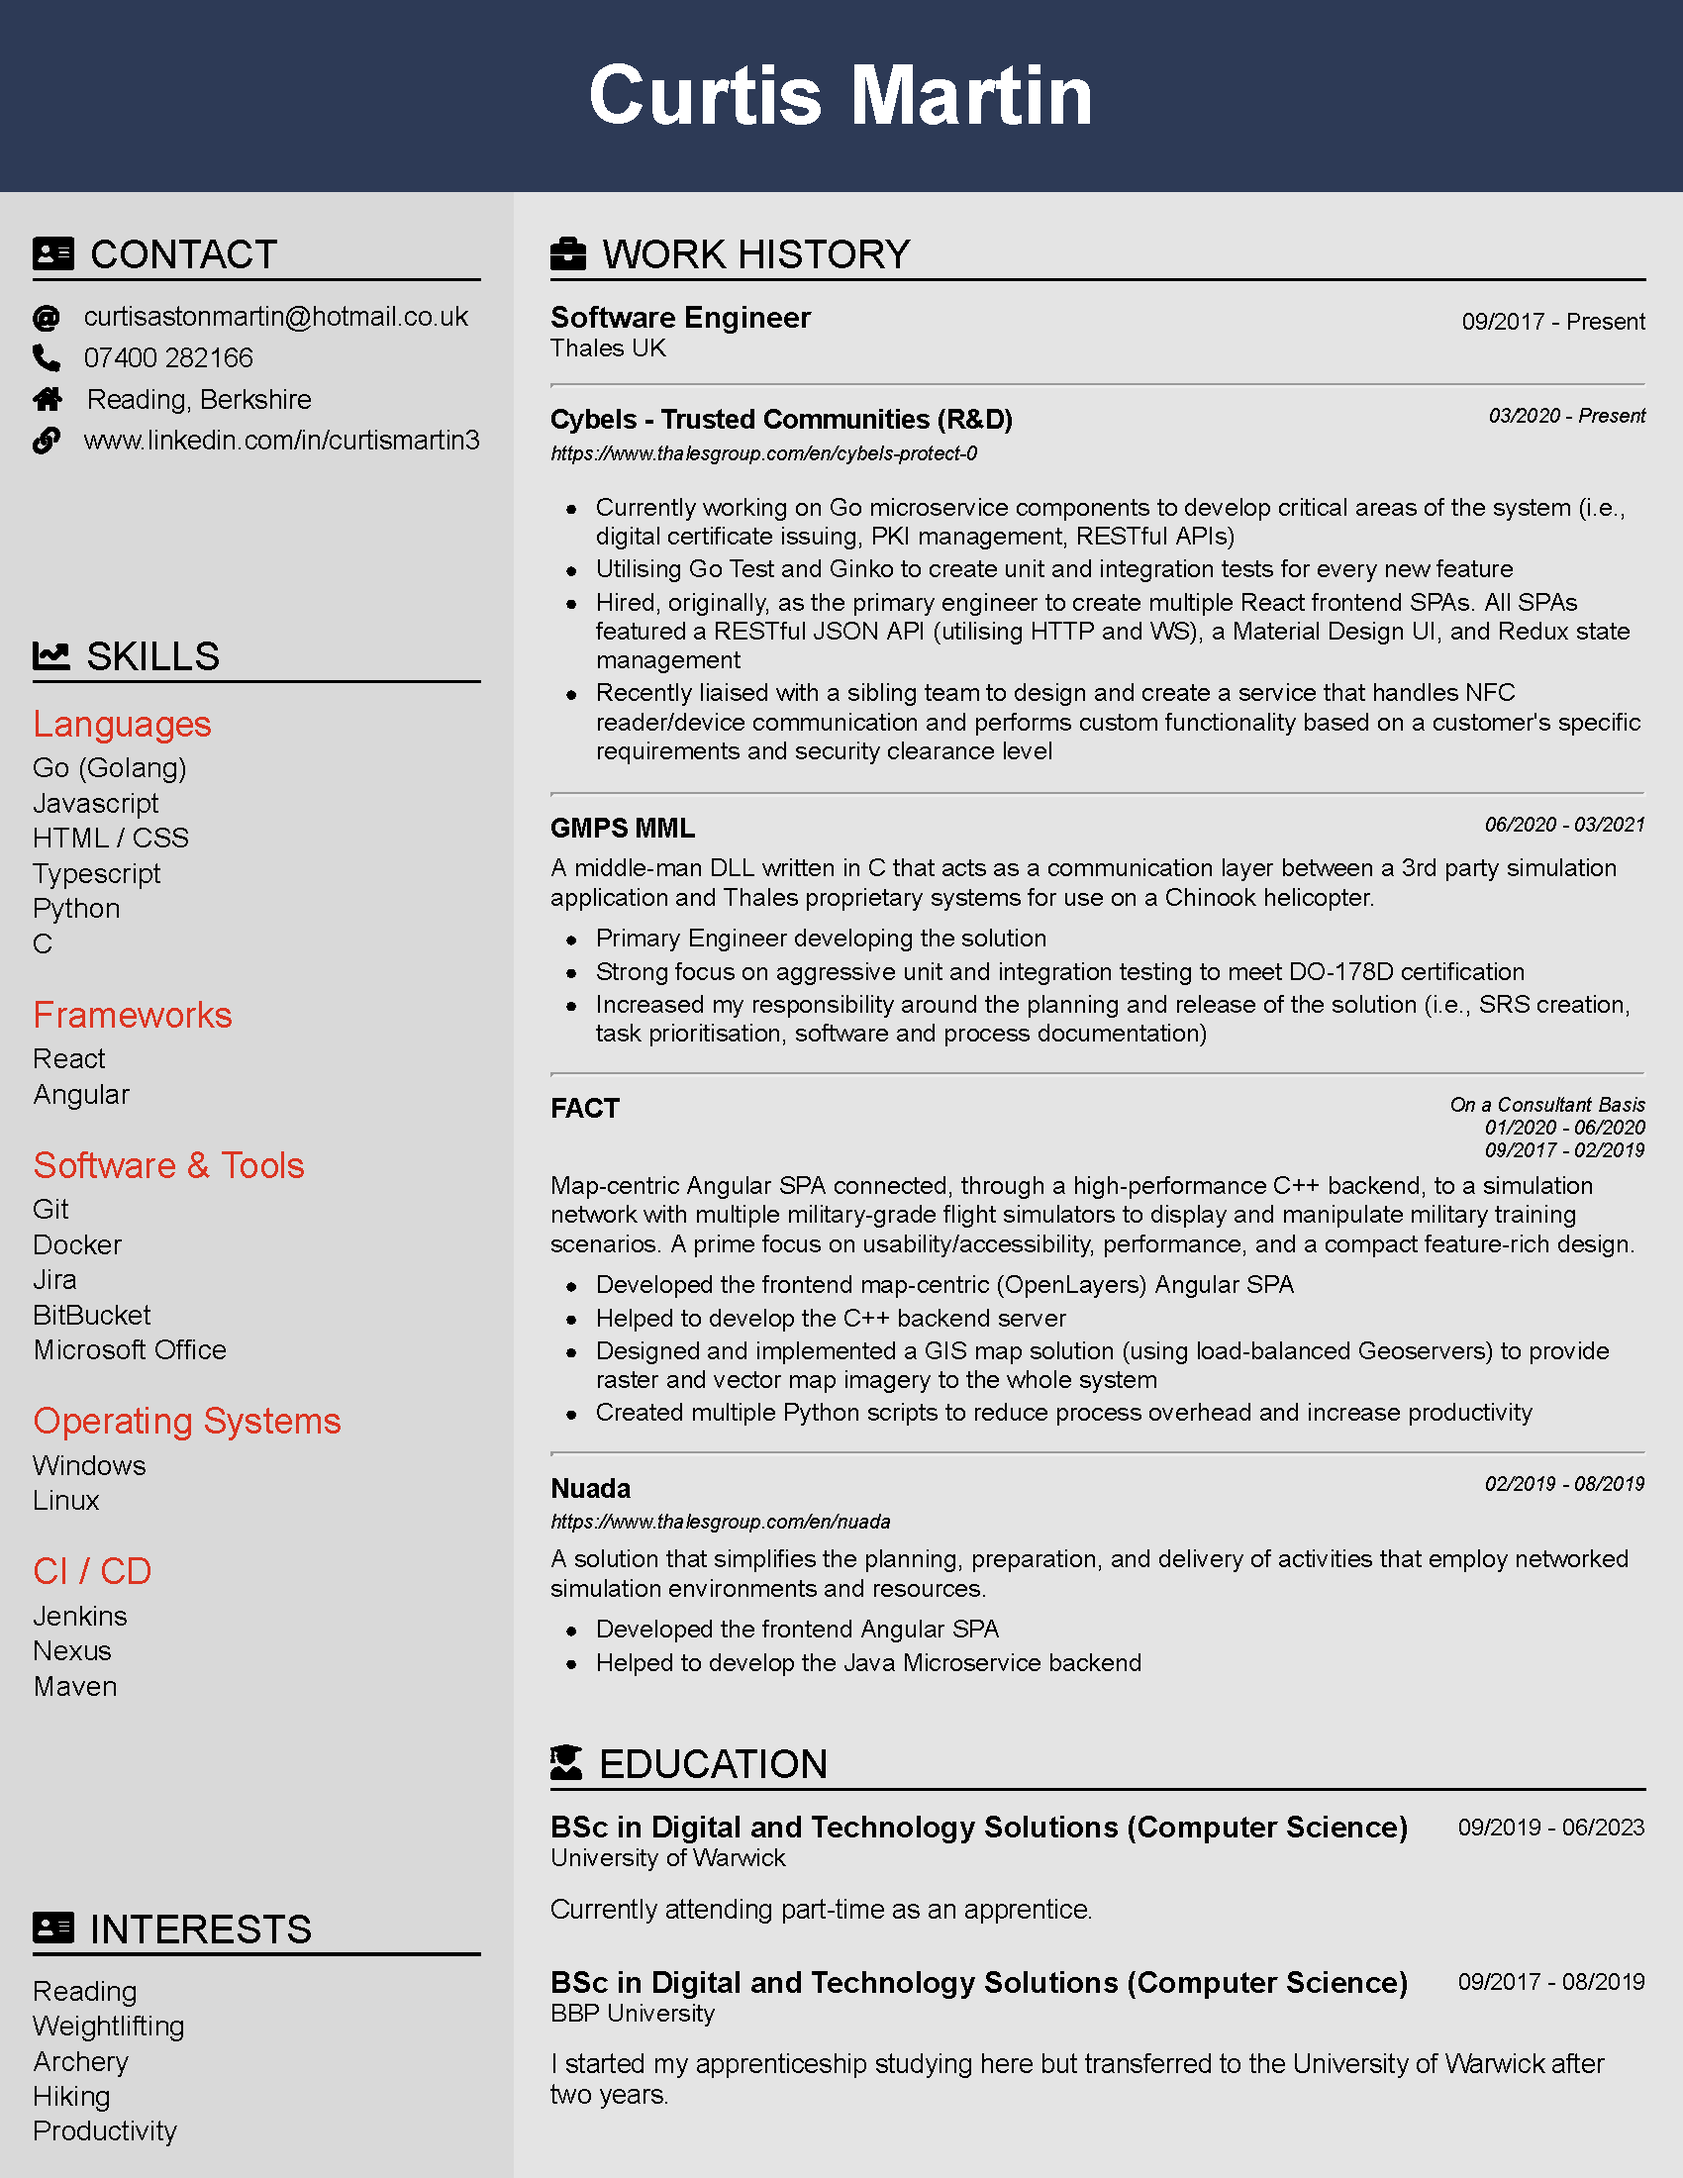
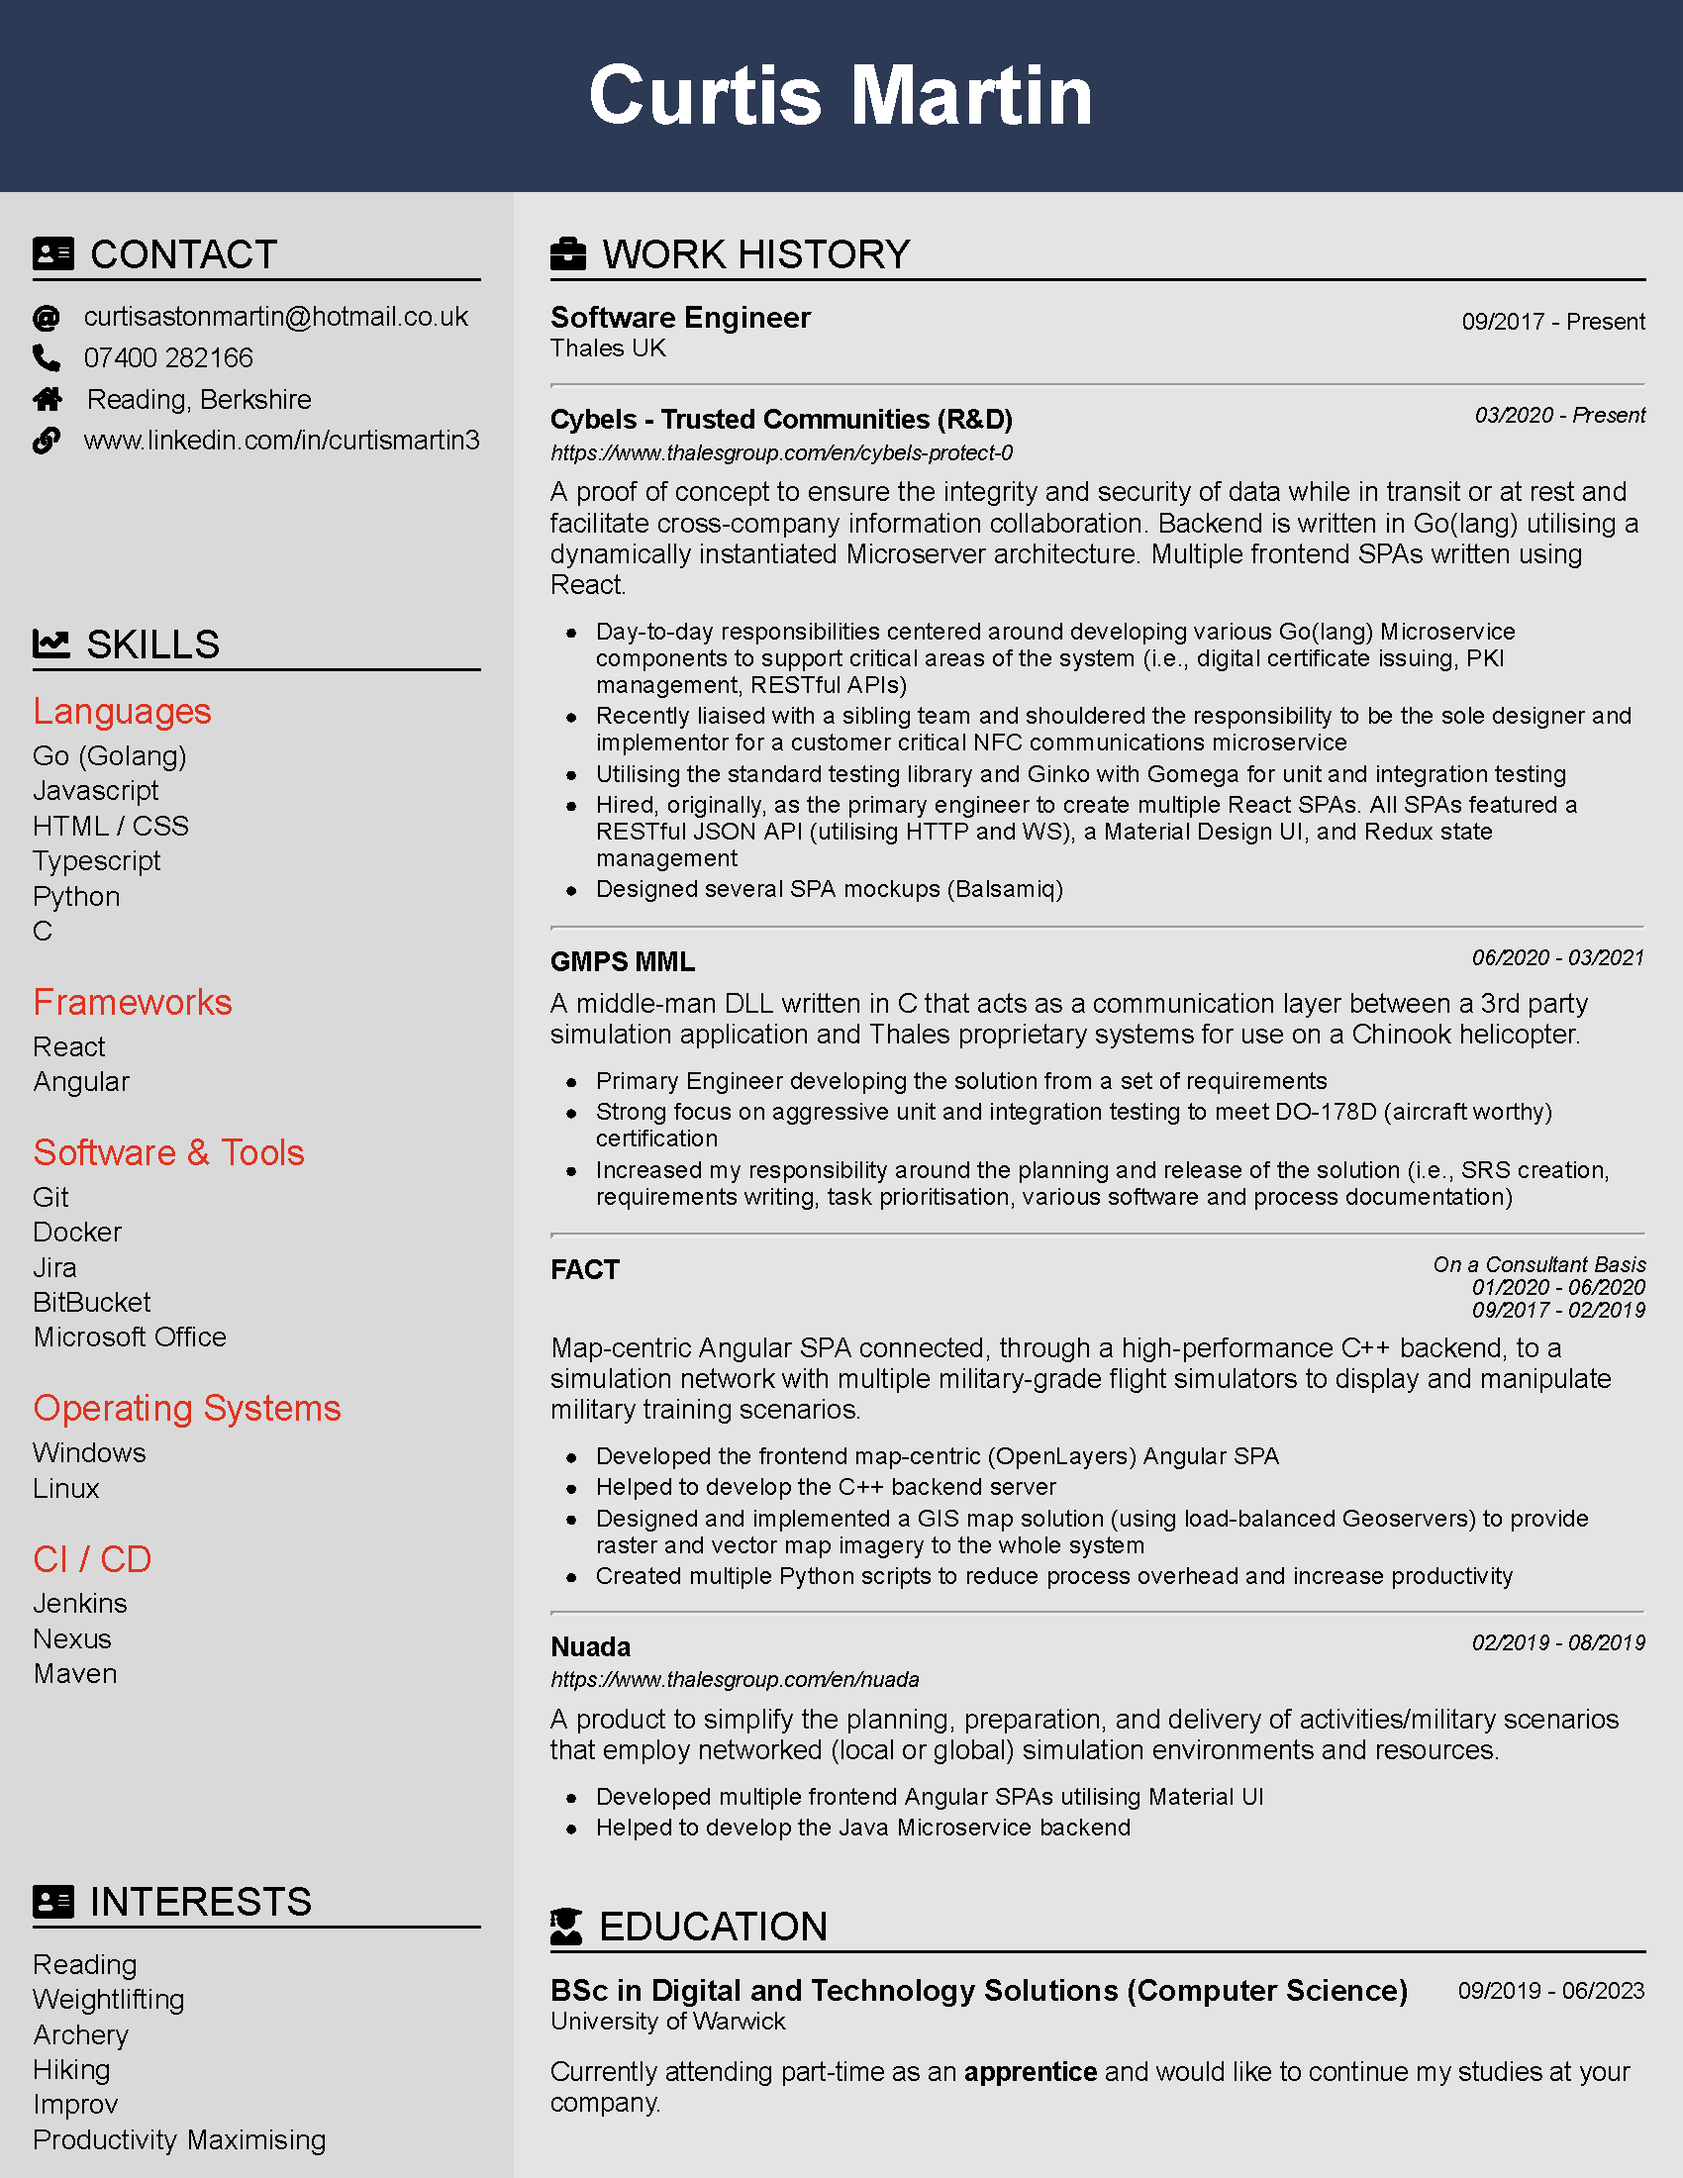
Updated Work and Education History

diff --git a/src/features/work-history/WorkHistory.jsx b/src/features/work-history/WorkHistory.jsx
@@ -34,30 +34,32 @@ const WorkHistory = () => {
             </div>
           </div>
 
-          <p>
-            <ul>
-              <li>
-                Currently working on Go microservice components to develop critical areas
-                of the system (i.e., digital certificate issuing, PKI management, RESTful APIs)
+          <div className="project-desc">
+            A proof of concept to ensure the integrity and security of data while in transit or at rest and facilitate
+            cross-company information collaboration. Backend is written in Go(lang) utilising a dynamically instantiated
+            Microserver architecture. Multiple frontend SPAs written using React.
+          </div>
+
+          <ul>
+            <li>
+              Day-to-day responsibilities centered around developing various Go(lang) Microservice components to support critical areas
+              of the system (i.e., digital certificate issuing, PKI management, RESTful APIs)
               </li>
-              <li>
-                Utilising Go Test and Ginko for unit and integration testing
+            <li>
+              Recently liaised with a sibling team and shouldered the responsibility to be the sole designer and implementor
+              for a customer critical NFC communications microservice
               </li>
-              <li>
-                Hired, originally, as the primary engineer to create multiple React frontend 
-                SPAs. All SPAs featured a RESTful JSON API (utilising HTTP and WS), a Material 
-                Design UI, and Redux state management
+            <li>
+              Utilising the standard testing library and Ginko with Gomega for unit and integration testing
               </li>
-              <li>
-                Created several SPA mockup designs
+            <li>
+              Hired, originally, as the primary engineer to create multiple React SPAs.
+              All SPAs featured a RESTful JSON API (utilising HTTP and WS), a Material Design UI, and Redux state management
               </li>
-              <li>
-                Recently liaised with a sibling team to design and create a microservice that 
-                handles NFC reader/device communication then performs custom functionality based 
-                on a customer&apos;s specific requirements and security clearance level
+            <li>
+              Designed several SPA mockups (Balsamiq)
               </li>
-            </ul>
-          </p>
+          </ul>
         </div>
 
         <hr />
@@ -80,15 +82,15 @@ const WorkHistory = () => {
 
           <ul>
             <li>
-              Primary Engineer developing the solution
+              Primary Engineer developing the solution from a set of requirements
             </li>
             <li>
-              Strong focus on aggressive unit and integration testing to meet DO-178D
+              Strong focus on aggressive unit and integration testing to meet DO-178D (aircraft worthy)
               certification
             </li>
             <li>
               Increased my responsibility around the planning and release of the solution
-              (i.e., SRS creation, task prioritisation, software and process documentation)
+              (i.e., SRS creation, requirements writing, task prioritisation, various software and process documentation)
             </li>
           </ul>
         </div>
@@ -112,10 +114,9 @@ const WorkHistory = () => {
           </div>
 
           <div className="project-desc">
-            Map-centric Angular SPA connected, through a high-performance C++ backend, to 
+            Map-centric Angular SPA connected, through a high-performance C++ backend, to
             a simulation network with multiple military-grade flight simulators to display
-            and manipulate military training scenarios. A prime focus on usability/accessibility,
-            performance, and a compact feature-rich design.
+            and manipulate military training scenarios.
           </div>
 
           <ul>
@@ -126,7 +127,7 @@ const WorkHistory = () => {
               Helped to develop the C++ backend server
             </li>
             <li>
-              Designed and implemented a GIS map solution (using load-balanced Geoservers) to 
+              Designed and implemented a GIS map solution (using load-balanced Geoservers) to
               provide raster and vector map imagery to the whole system
             </li>
             <li>
@@ -150,8 +151,8 @@ const WorkHistory = () => {
           </div>
 
           <div className="project-desc">
-            A solution that simplifies the planning, preparation, and delivery of activities
-            that employ networked simulation environments and resources.
+            A product to simplify the planning, preparation, and delivery of activities/military scenarios
+            that employ networked (local or global) simulation environments and resources.
           </div>
 
           <ul>

diff --git a/src/features/education-history/EducationHistory.jsx b/src/features/education-history/EducationHistory.jsx
@@ -21,15 +21,8 @@ const EducationHistory = () => {
         institutionDetails="University of Warwick"
       >
         <div className="education-details">
-          Currently attending part-time as an <b>apprentice</b>.
+          Currently attending part-time as an <b>apprentice</b> and would like to continue my studies at your company.
         </div>
-      </EducationEntry>
-
-      <EducationEntry
-        courseTitle="BSc in Digital and Technology Solutions (Computer Science)"
-        date="09/2017 - 08/2019"
-        institutionDetails="BBP University"
-      >
       </EducationEntry>
     </div>
   );

diff --git a/src/features/work-history/WorkHistory.css b/src/features/work-history/WorkHistory.css
@@ -5,7 +5,7 @@
 .project-date {
     text-align: end;
 
-    font-size: 0.7rem;
+    font-size: 0.65rem;
     font-style: italic;
     font-weight: lighter;
 
@@ -14,6 +14,7 @@
 
 .project-desc {
     margin-top: 5px;
+    margin-bottom: 8px;
 
     font-size: 0.82rem;
 }
@@ -24,7 +25,7 @@ ul {
 
     list-style-type: disclosure-closed;
 
-    font-size: 0.75rem;
+    font-size: 0.735rem;
 }
 
 li {

diff --git a/scripts/create-pdf.js b/scripts/create-pdf.js
@@ -10,7 +10,7 @@ const puppeteer = require('puppeteer');
 
 
 	await page.pdf({
-		path: "CV.pdf",
+		path: "C Martin - CV.pdf",
 		format: "Letter",
 		printBackground: true
 	});

diff --git a/README.md b/README.md
@@ -102,7 +102,6 @@ command above first), and downloads the page as a PDF
 
 
 <!-- MARKDOWN LINKS & IMAGES -->
-<!-- https://www.markdownguide.org/basic-syntax/#reference-style-links -->
 [linkedin-shield]: https://img.shields.io/badge/-LinkedIn-black.svg?style=for-the-badge&logo=linkedin&colorB=555
 [linkedin-url]: https://linkedin.com/in/curtismartin3
 [product-screenshot]: CV.png
